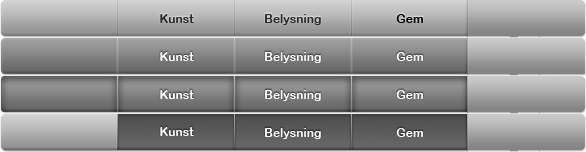
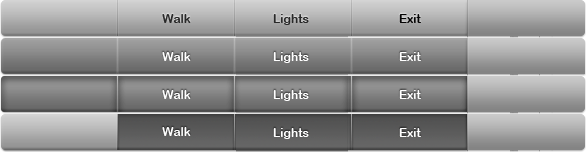
curator in engrish

diff --git a/liboh/plugins/ogre/data/chrome/ui/screens/curator_welcome.html b/liboh/plugins/ogre/data/chrome/ui/screens/curator_welcome.html
@@ -1,5 +1,5 @@
 <p> 
-  Her kan du bygge dit eget galleri af Jais Nielsen billeder. V&aelig;lg de billeder du bedst kan lide og h&aelig;ng dem p&aring; v&aelig;ggene. Derefter kan du v&aelig;lge belysning og gemme dit galleri, s&aring; andre museums g&aelig;ster kan se hvad du har lavet. </p>
+  Here you can build your own gallery of pictures by Jais Nielsen. Select the pictures you like best and hang them on the walls. Then you can choose your lighting, and store your gallery so that other museum visitors can see what you have done. </p>
 <ul id="modal-screen-buttons">
   <li><a href="javascript:curatorMode(1);"><img src="images/start.png" /> </a> </li>
 </ul>

diff --git a/liboh/plugins/ogre/data/chrome/ui/screens/curator_save.html b/liboh/plugins/ogre/data/chrome/ui/screens/curator_save.html
@@ -2,11 +2,11 @@
 <div style="position:absolute; left: 35px; top: 52px; width: 492px;">
 <table width="444" border="0" >
   <tr>
-    <td width="194" style="color: #FFF;">Hvad skal dit galleri hedde? </td>
+    <td width="194" style="color: #FFF;">Choose a name for your gallery: </td>
     <td width="240"><input id="title" type="text" size="33" maxlength="30" /></td>
   </tr>
   <tr>
-    <td style="color:#FFF;">Beskriv hvad du har lavet </td>
+    <td style="color:#FFF;">Include a description of your gallery here: </td>
     <td><textarea name="description" cols="27" rows="3" id='description'></textarea></td>
   </tr>
 </table>

diff --git a/liboh/plugins/ogre/data/chrome/ui/screens/curator_lights.html b/liboh/plugins/ogre/data/chrome/ui/screens/curator_lights.html
@@ -17,7 +17,7 @@
 </style>
 
 
-<p> V&aelig;lg hvilken belysning dit galleri skal have: </p>
+<p> Select your preferred lighting mood: </p>
 <p>&nbsp;
     <a href='javascript:Client.event("navcommand", "light selectmood 0"); javascript:Client.event("navcommand", "light getpower average");'><img class="light" src="images/light1.png" /></a>&nbsp;
     <a href='javascript:Client.event("navcommand", "light selectmood 1"); javascript:Client.event("navcommand", "light getpower average");'><img  class="light" src="images/light2.png" /></a>&nbsp;

diff --git a/liboh/plugins/ogre/data/chrome/ui/screens/curator_art.html b/liboh/plugins/ogre/data/chrome/ui/screens/curator_art.html
@@ -140,7 +140,7 @@
  
 								
 <div style="text-align:center; position:absolute; width: 100%; top: 15px;">
-V&aelig;lg et billede og tr&aelig;k det ind i galleriet: </div>	
+Choose an image and drag it into the gallery: </div>	
 		
 <div class="wrapper"> 
 	<ul class="magnifyme">
